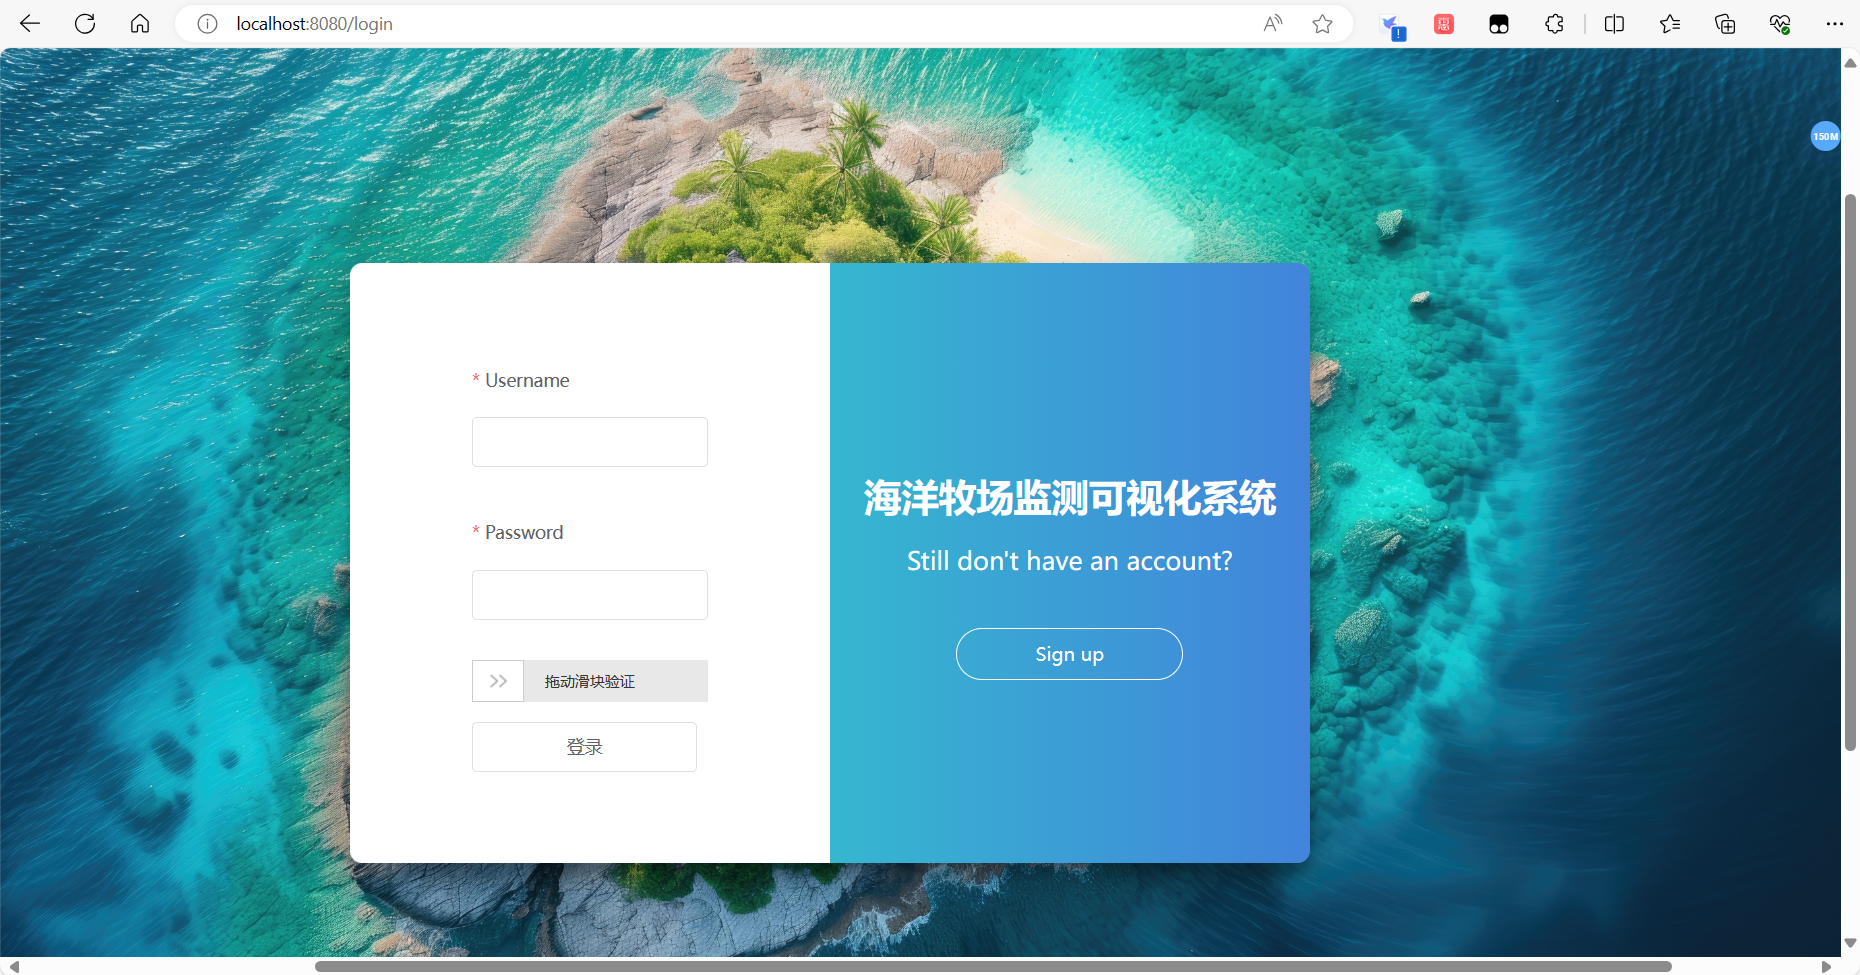
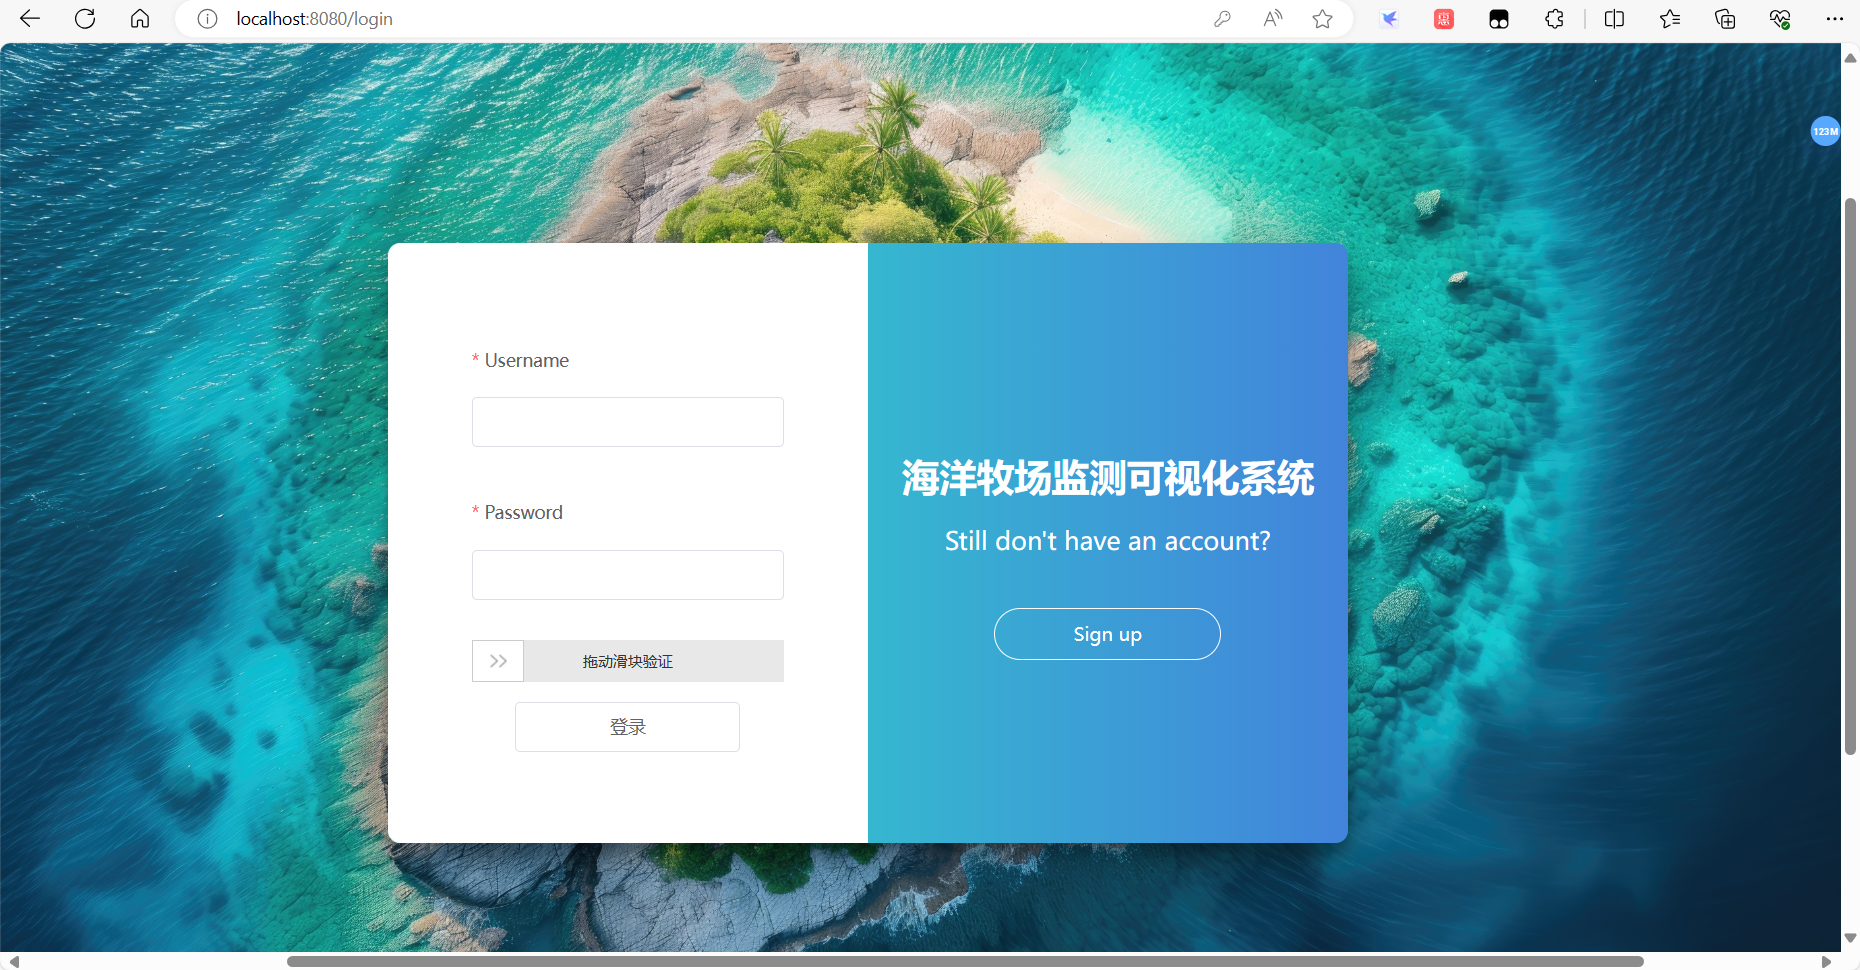
修改了登录注册页面

diff --git a/myfrontend/src/views/Register.vue b/myfrontend/src/views/Register.vue
@@ -181,46 +181,75 @@
 		line-height: 40px;
 		margin-top: 30px;
 	}
+	
+	.text-foot{
+		font-weight: 700;
+		margin-top: 20px;
+		display: flex;
+		justify-content: center;
+	}
 </style>
  
 <template>
     <div class="center">
 		<div class="logon">
-            <div class="overlaylongleft">
-				<div class="overlaylong-Signup">
-					<!-- <h2 class="overlaylongH2">Registered Account</h2>
-					<input type="text" placeholder="Username" v-model="registerForm.username">
-					<input type="password" placeholder="Password" v-model="registerForm.password">
-					<input type="password" placeholder="Confirm Password" v-model="registerForm.checkPassword">
-					<button class="inupbutton" @click="register">Sign up</button> -->
-                    <el-main>
-                        <div id="register-from">
-                            <el-form ref="registerForm" status-icon :model="registerForm" :rules="rules">
-                                <el-form-item label="Username" prop="username">
-                                    <el-input v-model="registerForm.username" autocomplete="off"></el-input>
-                                </el-form-item>
-                                <el-form-item label="Name" prop="name">
-                                    <el-input v-model="registerForm.name" autocomplete="off"></el-input>
-                                </el-form-item>
-                                <el-form-item label="Password" prop="password">
-                                    <el-input type="password" v-model="registerForm.password" autocomplete="off"></el-input>
-                                </el-form-item>
-                                <el-form-item label="Confirm Your Passord" prop="checkpwd">
-                                    <el-input type="password" v-model="registerForm.checkpwd" autocomplete="off"></el-input>
-                                </el-form-item>
-                                <slide-verification @check-result="checkResult"></slide-verification>
-                                <br />
-                                <el-button @click.native.prevent="register('registerForm')">注册</el-button>
-                            </el-form>
-                        </div>
-                    </el-main>
+            <div :class="overlaylong">
+				<div class="overlaylong-Signin" v-if="disfiex == 0">
+					<el-main>
+						<div id="register-from">
+							<el-form ref="registerForm" status-icon :model="registerForm" :rules="rules">
+								<el-form-item label="Username" prop="username" style="margin-bottom: 5px;">
+									<el-input v-model="registerForm.username" autocomplete="off" style="width: 250px;"></el-input>
+								</el-form-item>
+								<el-form-item label="Name" prop="name" style="margin-bottom: 5px;">
+									<el-input v-model="registerForm.name" autocomplete="off" style="width: 250px;"></el-input>
+								</el-form-item>
+								<el-form-item label="Phone" prop="phone" style="margin-bottom: 5px;">
+									<el-input v-model="registerForm.phone" autocomplete="off" style="width: 250px;"></el-input>
+								</el-form-item>
+								<div class="text-foot">
+									已有账号？
+									<router-link to="/login" class="register-link">
+										登录
+									</router-link>
+								</div>
+							</el-form>
+						</div>
+					</el-main>
+				</div>
+				<div class="overlaylong-Signup" v-if="disfiex == 1">
+					<el-main>
+						<div id="register-from">
+							<el-form ref="registerForm" status-icon :model="registerForm" :rules="rules">
+								<el-form-item label="E-mail" prop="email" style="margin-bottom: 5px;">
+									<el-input v-model="registerForm.email" autocomplete="off" style="width: 250px;"></el-input>
+								</el-form-item>
+								<el-form-item label="Password" prop="password" style="margin-bottom: 5px;">
+									<el-input type="password" v-model="registerForm.password" autocomplete="off" style="width: 250px;"></el-input>
+								</el-form-item>
+								<el-form-item label="Confirm Your Passord" prop="checkpwd" style="margin-bottom: 5px;">
+									<el-input type="password" v-model="registerForm.checkpwd" autocomplete="off" style="width: 250px;"></el-input>
+								</el-form-item>
+								<slide-verification @check-result="checkResult"></slide-verification>
+								<br />
+								<div style="display: flex; justify-content: center;">
+									<el-button class="inputbutton" @click.native.prevent="register('registerForm')">注册</el-button>
+								</div>
+							</el-form>
+						</div>
+					</el-main>
 				</div>
 			</div>
-            <div class="overlaytitleright">
-				<div class="overlaytitle-Signup">
+            <div :class="overlaytitle">
+				<div class="overlaytitle-Signin" v-if="disfiex == 0">
 					<h2 class="overlaytitleH2">海洋牧场监测可视化系统</h2>
-					<p class="overlaytitleP">Have an account?</p>
-                    <router-link class="buttongohs" to="/login">Sign in</router-link>
+					<p class="overlaytitleP">Next step is to create an account</p>
+                    <div class="buttongohs" @click="NextStep">Next Step</div>
+				</div>
+				<div class="overlaytitle-Signin" v-if="disfiex == 1">
+					<h2 class="overlaytitleH2">海洋牧场监测可视化系统</h2>
+					<p class="overlaytitleP">The last step is to create an account</p>
+                    <div class="buttongohs" @click="LastStep">Last Step</div>
 				</div>
 			</div>
 		</div>
@@ -252,11 +281,16 @@ export default {
         };
         return {
             confirmSuccess: false,
+			overlaylong: 'overlaylong',
+			overlaytitle: 'overlaytitle',
+			disfiex: 0,
             registerForm: {
                 username: null,
                 password: null,
                 checkpwd: null,
                 name: null,
+				phone: null,
+				email: null
             },
             rules: {
                 username: [{
@@ -314,7 +348,29 @@ export default {
                         message: '长度在 2 到 8 个字符',
                         trigger: 'blur'
                     }
-                ]
+                ],
+				phone: [{
+						required: true,
+						message: 'Please enter your phone number',
+						trigger: 'blur'
+					},
+					{
+						pattern: /^1[3|4|5|6|7|8|9][0-9]\d{8}$/,
+						message: '长度为11个字符',
+						trigger: ['blur', 'change']
+					}
+				],
+				email: [{
+						required: true,
+						message: 'Please enter your email',
+						trigger: 'blur'
+					},
+					{
+						type: 'email',
+						message: 'Please enter the correct email address',
+						trigger: 'blur'
+					}
+				]
             }
         }
     },
@@ -322,6 +378,20 @@ export default {
         SlideVerification
     },
     methods: {
+		NextStep() {
+				this.overlaylong = "overlaylongleft"
+				this.overlaytitle = "overlaytitleright"
+				setTimeout(() => {
+					this.disfiex = 1
+				}, 200)
+			},
+		LastStep() {
+			this.overlaylong = "overlaylongright"
+			this.overlaytitle = "overlaytitleleft"
+			setTimeout(() => {
+				this.disfiex = 0
+			}, 200)
+		},
         //获取滑块验证结果
         checkResult(message) {
             this.confirmSuccess = message

diff --git a/myfrontend/src/views/Login.vue b/myfrontend/src/views/Login.vue
@@ -200,14 +200,16 @@
 						<div id="login-from">
 							<el-form ref="loginForm" status-icon :model="loginForm" :rules="rules">
 								<el-form-item label="Username" prop="username">
-									<el-input v-model="loginForm.username" autocomplete="off"></el-input>
+									<el-input v-model="loginForm.username" autocomplete="off" style="width: 250px;"></el-input>
 								</el-form-item>
 								<el-form-item label="Password" prop="password">
-									<el-input type="password" v-model="loginForm.password" autocomplete="off"></el-input>
+									<el-input type="password" v-model="loginForm.password" autocomplete="off" style="width: 250px;"></el-input>
 								</el-form-item>
 								<slide-verification @check-result="checkResult"></slide-verification>
 								<br />
-								<el-button class="inputbutton" @click.native.prevent="login('loginForm')">登录</el-button>
+								<div style="display: flex; justify-content: center;">
+									<el-button class="inputbutton" @click.native.prevent="login('loginForm')">登录</el-button>
+								</div>
 							</el-form>
 						</div>
 					</el-main>
@@ -302,30 +304,7 @@ export default {
 				//未通过验证
 				this.$message('请拖动滑块进行验证！');
 			}
-		},
-		// register() {
-		// 	// Perform registration logic here
-		// 	// Create a new user account with the provided credentials
-		// 	// You can use an API call or any other registration mechanism
-			
-		// 	// Example registration logic
-		// 	alert('Registration successful');
-		// 	// Redirect to the login page or perform any other action
-		// },
-		// switchToRegistration() {
-		// 	this.overlaylong = 'overlaylongleft';
-		// 	this.overlaytitle = 'overlaytitleright';
-		// 	setTimeout(() => {
-		// 		this.disfiex = 1;
-		// 	}, 200);
-		// },
-		// switchToLogin() {
-		// 	this.overlaylong = 'overlaylongright';
-		// 	this.overlaytitle = 'overlaytitleleft';
-		// 	setTimeout(() => {
-		// 		this.disfiex = 0;
-		// 	}, 200);
-		// }
+		}
 	}
 }
 </script>

diff --git a/README.md b/README.md
@@ -121,6 +121,8 @@ python manage.py migrate
 
 ![alt text](image-7.png)
 
+![alt text](image-11.png)
+
 养殖户界面
 
 ![alt text](image-8.png)
